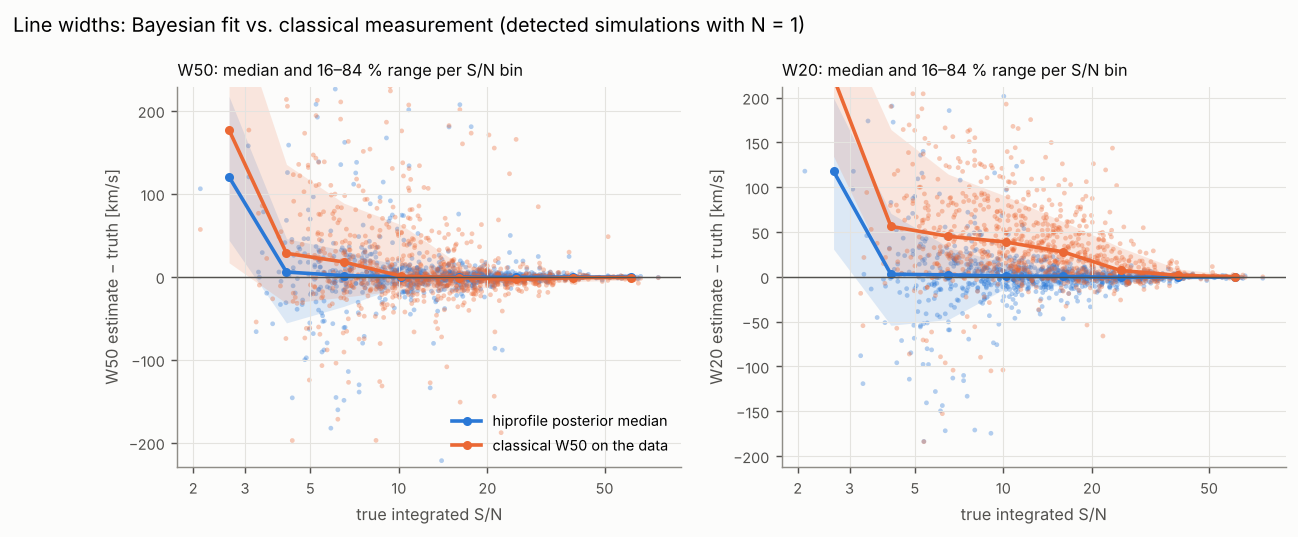
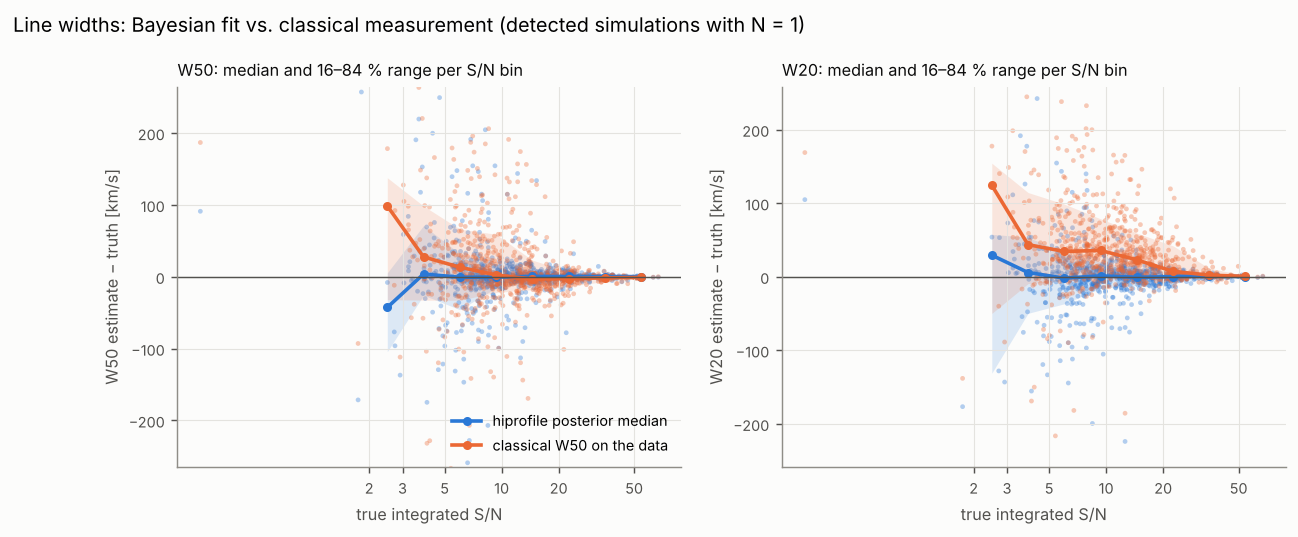
Posterior-relative prior-edge metric; SBC results with K marginalised
edge_mass counted the posterior mass in the outermost of 20 fixed bins, so
narrow galaxies in the 0-40 km/s bin of the width prior were flagged as
prior_edge (15 % of the SBC fits). The edge region is now half the
posterior's own 16-84 % width, capped at 1/20 of the range: a posterior cut
by the bound is flagged, a narrow one inside a wide range or a flat
prior-like one is not (6 % of the SBC fits, at the 4 km/s bound of
delta_v_rand or f = 0/1). Validation docs and README with the 1000-
simulation SBC run, baseline-order calibration and the regenerated figures.

Claude-Session: https://claude.ai/code/session_01HNuVsUUJVtD1RaQHWi7F3J

diff --git a/hiprofile/diagnostics/metrics.py b/hiprofile/diagnostics/metrics.py
@@ -70,15 +70,31 @@ def residual_acf(resid_white: np.ndarray, lags: tuple[int, ...] = (1, 2, 3)) -> 
     return np.array([np.sum(r[:-lag] * r[lag:]) / denom * np.sqrt(n) for lag in lags])
 
 
-def edge_mass(values: np.ndarray, weights: np.ndarray, low: float, high: float, n_bins: int = 20) -> float:
-    """Largest posterior mass in the outermost bin at a finite prior edge."""
+def edge_mass(
+    values: np.ndarray, weights: np.ndarray, low: float, high: float, fraction: float = 0.5, n_bins: int = 20
+) -> float:
+    """Largest posterior mass next to a finite prior bound.
+
+    "Next to" is within `fraction` of the posterior's own 16-84 % width, but at
+    most 1/n_bins of the prior range: a narrow object well inside a wide range
+    is not at an edge, a flat (prior-like) posterior is not either, while a
+    posterior cut off by the bound (mean within about 1.5 sigma of it) puts
+    more than 20 % of its mass there.
+    """
     w = weights / weights.sum()
-    width = (high - low) / n_bins if np.isfinite(low) and np.isfinite(high) else None
-    out = 0.0
-    if width is None:
+    order = np.argsort(values)
+    c = np.cumsum(w[order])
+    p16, p84 = np.interp([0.16, 0.84], c, values[order])
+    width = fraction * (p84 - p16)
+    if np.isfinite(low) and np.isfinite(high):
+        width = min(width, (high - low) / n_bins)
+    if width <= 0:
         return 0.0
-    out = max(out, float(np.sum(w[values <= low + width])))
-    out = max(out, float(np.sum(w[values >= high - width])))
+    out = 0.0
+    if np.isfinite(low):
+        out = max(out, float(np.sum(w[values <= low + width])))
+    if np.isfinite(high):
+        out = max(out, float(np.sum(w[values >= high - width])))
     return out
 
 

diff --git a/tests/test_diagnostics.py b/tests/test_diagnostics.py
@@ -1,0 +1,18 @@
+import numpy as np
+
+from hiprofile.diagnostics import metrics as dm
+
+
+def test_edge_mass_flags_only_posteriors_cut_by_a_bound(rng):
+    w = np.ones(20000)
+    # half-normal against the lower bound: cut off
+    assert dm.edge_mass(4.0 + np.abs(rng.normal(size=w.size)), w, 4.0, 60.0) > 0.3
+    # mean 1 sigma inside the bound: still cut off
+    x = rng.normal(5.0, 1.0, size=w.size)
+    assert dm.edge_mass(x[x >= 4.0], w[x >= 4.0], 4.0, 60.0) > 0.2
+    # narrow posterior far (in its own width) from the bound of a wide range: not an edge
+    assert dm.edge_mass(rng.normal(20.0, 3.0, size=w.size), w, 0.0, 800.0) < 1e-3
+    # flat, prior-like posterior: touches both bounds but is not cut by them
+    assert dm.edge_mass(rng.uniform(size=w.size), w, 0.0, 1.0) < 0.07
+    # unbounded parameter
+    assert dm.edge_mass(rng.normal(size=w.size), w, -np.inf, np.inf) == 0.0

diff --git a/docs/validation.md b/docs/validation.md
@@ -1,52 +1,88 @@
 # Validation
 
-All runs are reproducible with `hiprofile validate` (setup of each stage in
-`hiprofile/validate/stages.py`). Results below come from runs on a 4-core
-machine and cover fewer simulations than the roadmap's acceptance targets
-(1000 SBC simulations); the nightly CI job adds a small SBC run each night.
+All stages run with `hiprofile validate` (set-up of each stage in
+`hiprofile/validate/stages.py`); the figures come from
+`python docs/make_figures.py validation <run directory>`. The results below
+use the default configuration (full mode, SMC sampler, N ≤ 2, K ≤ 3, RFI
+pre-stage) on a 4-core machine: `--seed 11` for the 1000 SBC simulations,
+`--seed 21` for the 200 detection simulations and `--seed 31` for the 100
+misspecified profiles.
 
 ## Stage 1: simulation-based calibration
 
-`hiprofile validate --stage sbc --n 300 --seed 11 --jobs 3` (full mode,
-nautilus). Parameters, amplitudes (half-normal, scale 4 Jy km/s) and a
-first-order Chebyshev baseline are drawn from the fit prior. Noise is white
-with σ = 0.01, on 512 channels of 5 km/s.
+`hiprofile validate --stage sbc --n 1000 --seed 11 --jobs 4`
+
+Every simulation is drawn from the fit priors: the five shape parameters,
+the flux (half-normal with the default `amplitude_scale`), and a Chebyshev
+baseline of order K ~ U{0, …, 3} with coefficients from the baseline prior;
+white noise with σ = 0.01 Jy on 512 channels of 5 km/s. The fit uses the same
+priors with the order marginalised (`k_min = 0`, `k_max = 3`). The rank of
+the truth among 99 posterior draws must then be uniform, and the posterior
+intervals must cover the truth at their nominal rate.
 
 | parameter | rank p-value | 68 % coverage | 95 % coverage |
 |---|---|---|---|
-| v_ctr | 0.007 | 0.71 | 0.93 |
-| Δv | 0.36 | 0.68 | 0.94 |
-| Δv_rand | 0.18 | 0.65 | 0.92 |
-| α | 0.67 | 0.66 | 0.94 |
-| S | 0.57 | 0.68 | 0.92 |
-| f | 0.23 | 0.67 | 0.94 |
-| W50 | 0.54 | 0.70 | 0.95 |
-| W20 | 0.62 | 0.70 | 0.92 |
+| v_ctr | 0.98 | 0.68 | 0.94 |
+| Δv | 0.45 | 0.66 | 0.92 |
+| Δv_rand | 0.79 | 0.68 | 0.93 |
+| α | 0.63 | 0.64 | 0.94 |
+| S | 0.16 | 0.65 | 0.93 |
+| f | 0.07 | 0.68 | 0.92 |
+| W50 | 0.27 | 0.69 | 0.92 |
+| W20 | 0.99 | 0.67 | 0.91 |
 
-![SBC rank histograms](img/sbc_ranks.png)
+![SBC: rank histograms, interval coverage and baseline-order calibration](img/sbc.png)
 
-All 68 % coverages lie within or at the edge of the 65–71 % target. The
-v_ctr rank histogram has no systematic shape (no U, slope or peak). With eight
-tests its p = 0.007 corresponds to 0.056 after a Bonferroni correction. A
-1000-simulation run is still needed to close the acceptance criterion.
+All rank histograms are flat (no U shape, slope or peak; all p > 0.05). The
+68 % coverages lie inside the ±2σ band for 1000 simulations (0.65–0.71); the
+95 % coverages are one to two points below the nominal value, i.e. the SMC
+posteriors are slightly light-tailed. The 27.6 % of simulations that are
+not detected (faint draws of the half-normal flux prior) take part in the
+rank statistics like every other simulation.
 
-The same simulations measured against the truth:
+**Baseline order.** The most probable K is the true one in 93 % of the
+simulations and P(K_true | y) averages 0.88; the reliability curve (right
+panel) follows the diagonal, so the order probabilities in the catalogue
+mean what they say. The confusion matrix (rows: true K, columns: most
+probable K) is one-sided:
+
+```
+  266      2      0      0
+   14    229      0      0
+    6     14    220      0
+    2      6     26    215
+```
+
+A true K = 3 whose highest coefficients happen to be small is read as K = 2
+(26 of 249), which is the right answer for terms the data cannot see; the
+reverse, a spurious high order, almost never happens.
+
+**Flags.** 12 % of the fits carry a flag: `prior_edge` 6.4 % (Δv_rand at
+its 4 km/s bound or f at 0/1 for faint, narrow lines), `prior_dominated`
+3.8 %, `wiggle` 2.1 %, `multimodal` 0.9 %, `ppp` 0.9 %. None of these
+rates is a failure: the simulations include the faint end of the flux prior,
+where the width is not measurable.
+
+The same simulations measured against the truth (detected ones, N = 1):
 
 | quantity | Bayes bias | Bayes scatter | classical bias | classical scatter |
 |---|---|---|---|---|
-| W50 [km/s] | 0.3 | 15.5 | 12.5 | 41.1 |
-| W20 [km/s] | −0.1 | 17.4 | 43.4 | 60.8 |
-| S [Jy km/s] | −0.04 | 0.47 | −0.14 | 0.53 |
-| v_sys [km/s] | 0.01 | 7.6 | 0.29 | 18.5 |
+| W50 [km/s] | 0.4 | 10.6 | −0.3 | 19.5 |
+| W20 [km/s] | 0.4 | 13.0 | 23.5 | 33.5 |
+| S [Jy km/s] | 0.000 | 0.36 | 0.03 | 0.39 |
+| v_sys [km/s] | −0.2 | 4.5 | 0.1 | 8.3 |
 
-Compared with the classical measurement, the posterior medians are unbiased
-and their scatter is 2.5–3.5 times smaller for W50, W20 and v_sys.
+![Line widths: Bayesian fit against the classical measurement](img/bayes_vs_classic.png)
 
-One simulation (S/N ≈ 3.5) needed 0.5–0.7 million likelihood calls in every
-nested sampler, although all of them agreed on ln Z to within 0.5. The
-samplers now have time and call budgets, and the `sampler_budget` flag
-marks a fit that hit one.
+The posterior medians are unbiased, and their scatter is half (W50, v_sys)
+to a third (W20) of that of the classical measurement on the same data. The
+classical W20 is biased high at low S/N because noise peaks raise the 20 %
+crossing points; the Bayesian W50 is pulled slightly low below S/N ≈ 4,
+where the width prior takes over (`prior_dominated`). See
+[Priors](priors.md) for the conditional bias as a function of true width
+and S/N.
 
-Example posterior (corner plot of a low-S/N SBC spectrum with a bimodal centre):
+Example posterior (corner plot of a low-S/N SBC spectrum with a bimodal
+centre):
 
 ![corner plot](img/corner_example.png)

diff --git a/docs/outputs.md b/docs/outputs.md
@@ -68,7 +68,7 @@ crossings.
 | `chi2_red`, `ppp` (posterior predictive p) | `ppp` | p < `diagnostics.ppp_min` (0.01) |
 | `wiggle_J`, `wiggle_snr` (Stewart et al. Eq. 8) | `wiggle` | J > `wiggle_max` and J² significant at 3σ |
 | `residual_acf` (lag 1–3, in units of 1/√n) | `residual_acf` | any \|value\| > `acf_sigma` (4) |
-| `edge_<par>`, `edge_mass` (outermost of 20 bins at f, α, Δv, Δv_rand edges) | `prior_edge` | > `edge_mass` (0.2) |
+| `edge_<par>`, `edge_mass` (posterior mass next to a bound of f, α, Δv, Δv_rand: within half the posterior's 16–84 % width, at most 1/20 of the range) | `prior_edge` | > `edge_mass` (0.2): the bound cuts the posterior |
 | `multimodal_weight`, `multimodal_separation` (2-means in the unit cube) | `multimodal` | weight > 0.1 and separation > 4 |
 | `ess` (Kish) | `low_ess` | < `min_ess` (500) |
 | `logz_check_sigma` (check mode) | `logz_mismatch` | > `logz_sigma` (3) |

diff --git a/README.md b/README.md
@@ -62,6 +62,16 @@ simulator draws from the same priors. Details in [docs/priors.md](docs/priors.md
 
 ![Default priors against the THINGS fits](docs/img/priors_things.png)
 
+## Validation
+
+1000 spectra simulated from the priors and fitted with the defaults
+([docs/validation.md](docs/validation.md)): rank statistics and interval
+coverages are calibrated, the baseline order is recovered in 93 % of the
+cases, and the posterior medians of W50, W20 and v_sys scatter half to a
+third as much as the classical measurements on the same data.
+
+![Line widths: Bayesian fit against the classical measurement](docs/img/bayes_vs_classic.png)
+
 ## Development
 
 ```bash
